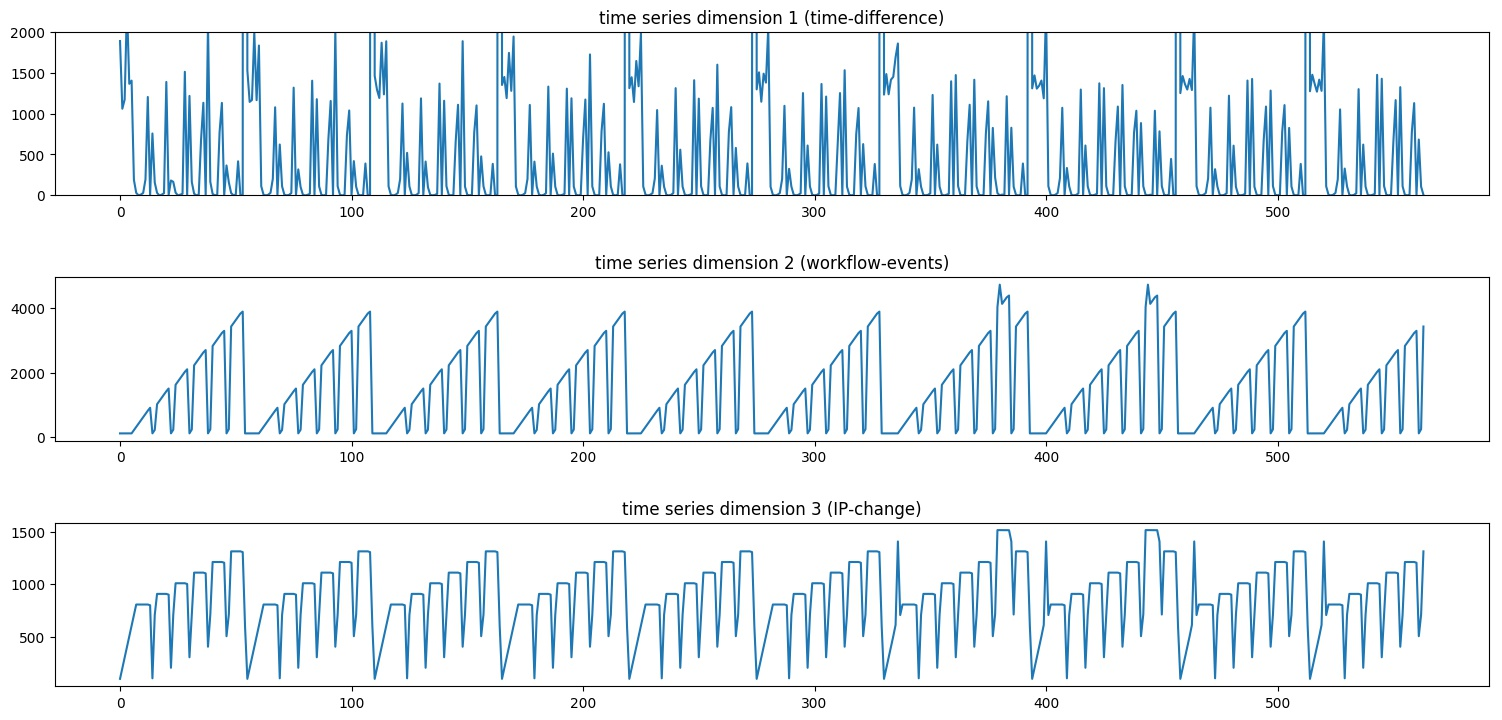
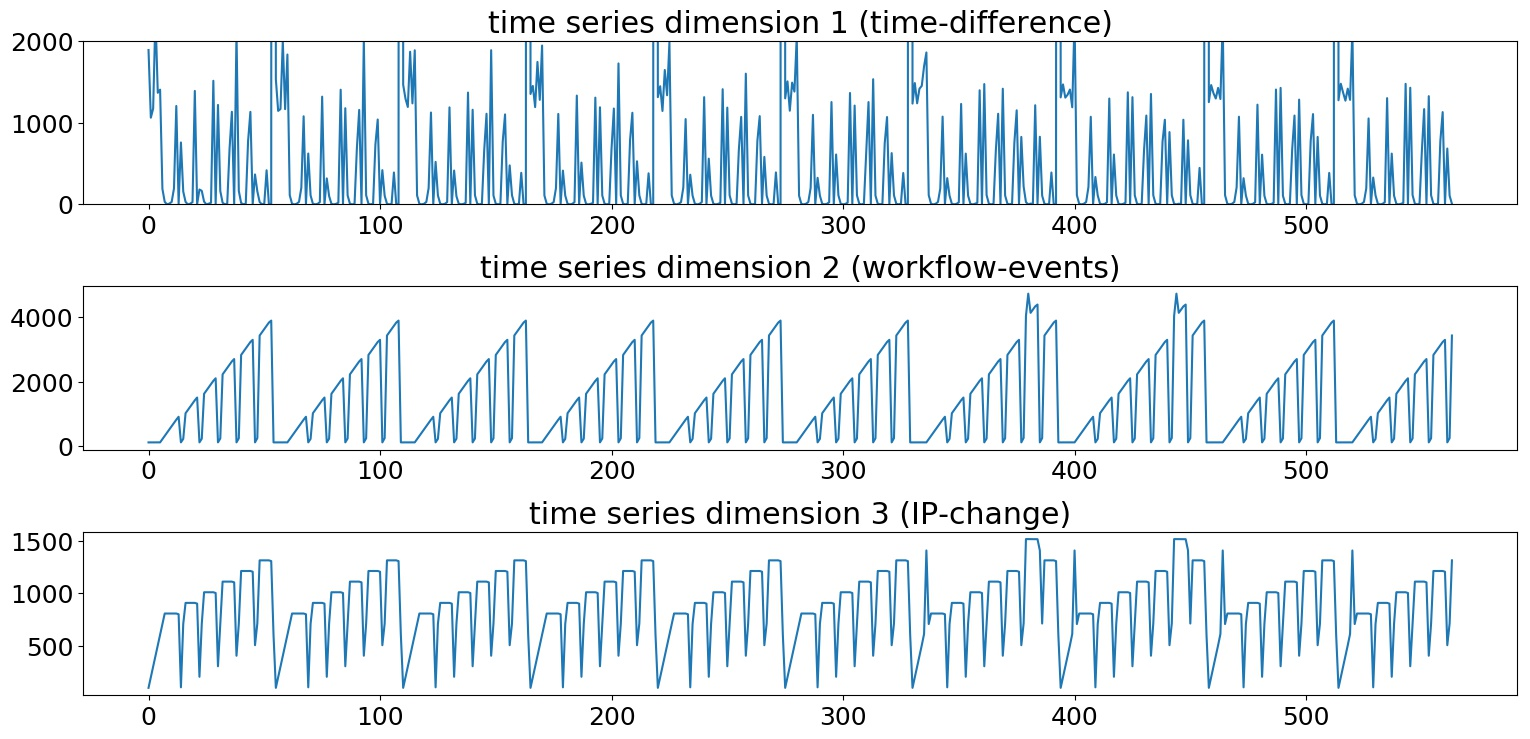
working on readme

diff --git a/run_ramp.py b/run_ramp.py
@@ -65,6 +65,9 @@ anomaly_flags, anomaly_scores, contrib = RAMP.execute(data,labels)
 thresh = np.ones(len(anomaly_scores))*theta
 sz = len(anomaly_scores) # becuase the final data point will be at len(data) - self.m
 
+
+plt.rcParams["font.size"] = "18"
+
 plt.figure()
 
 plt.subplot(311)
